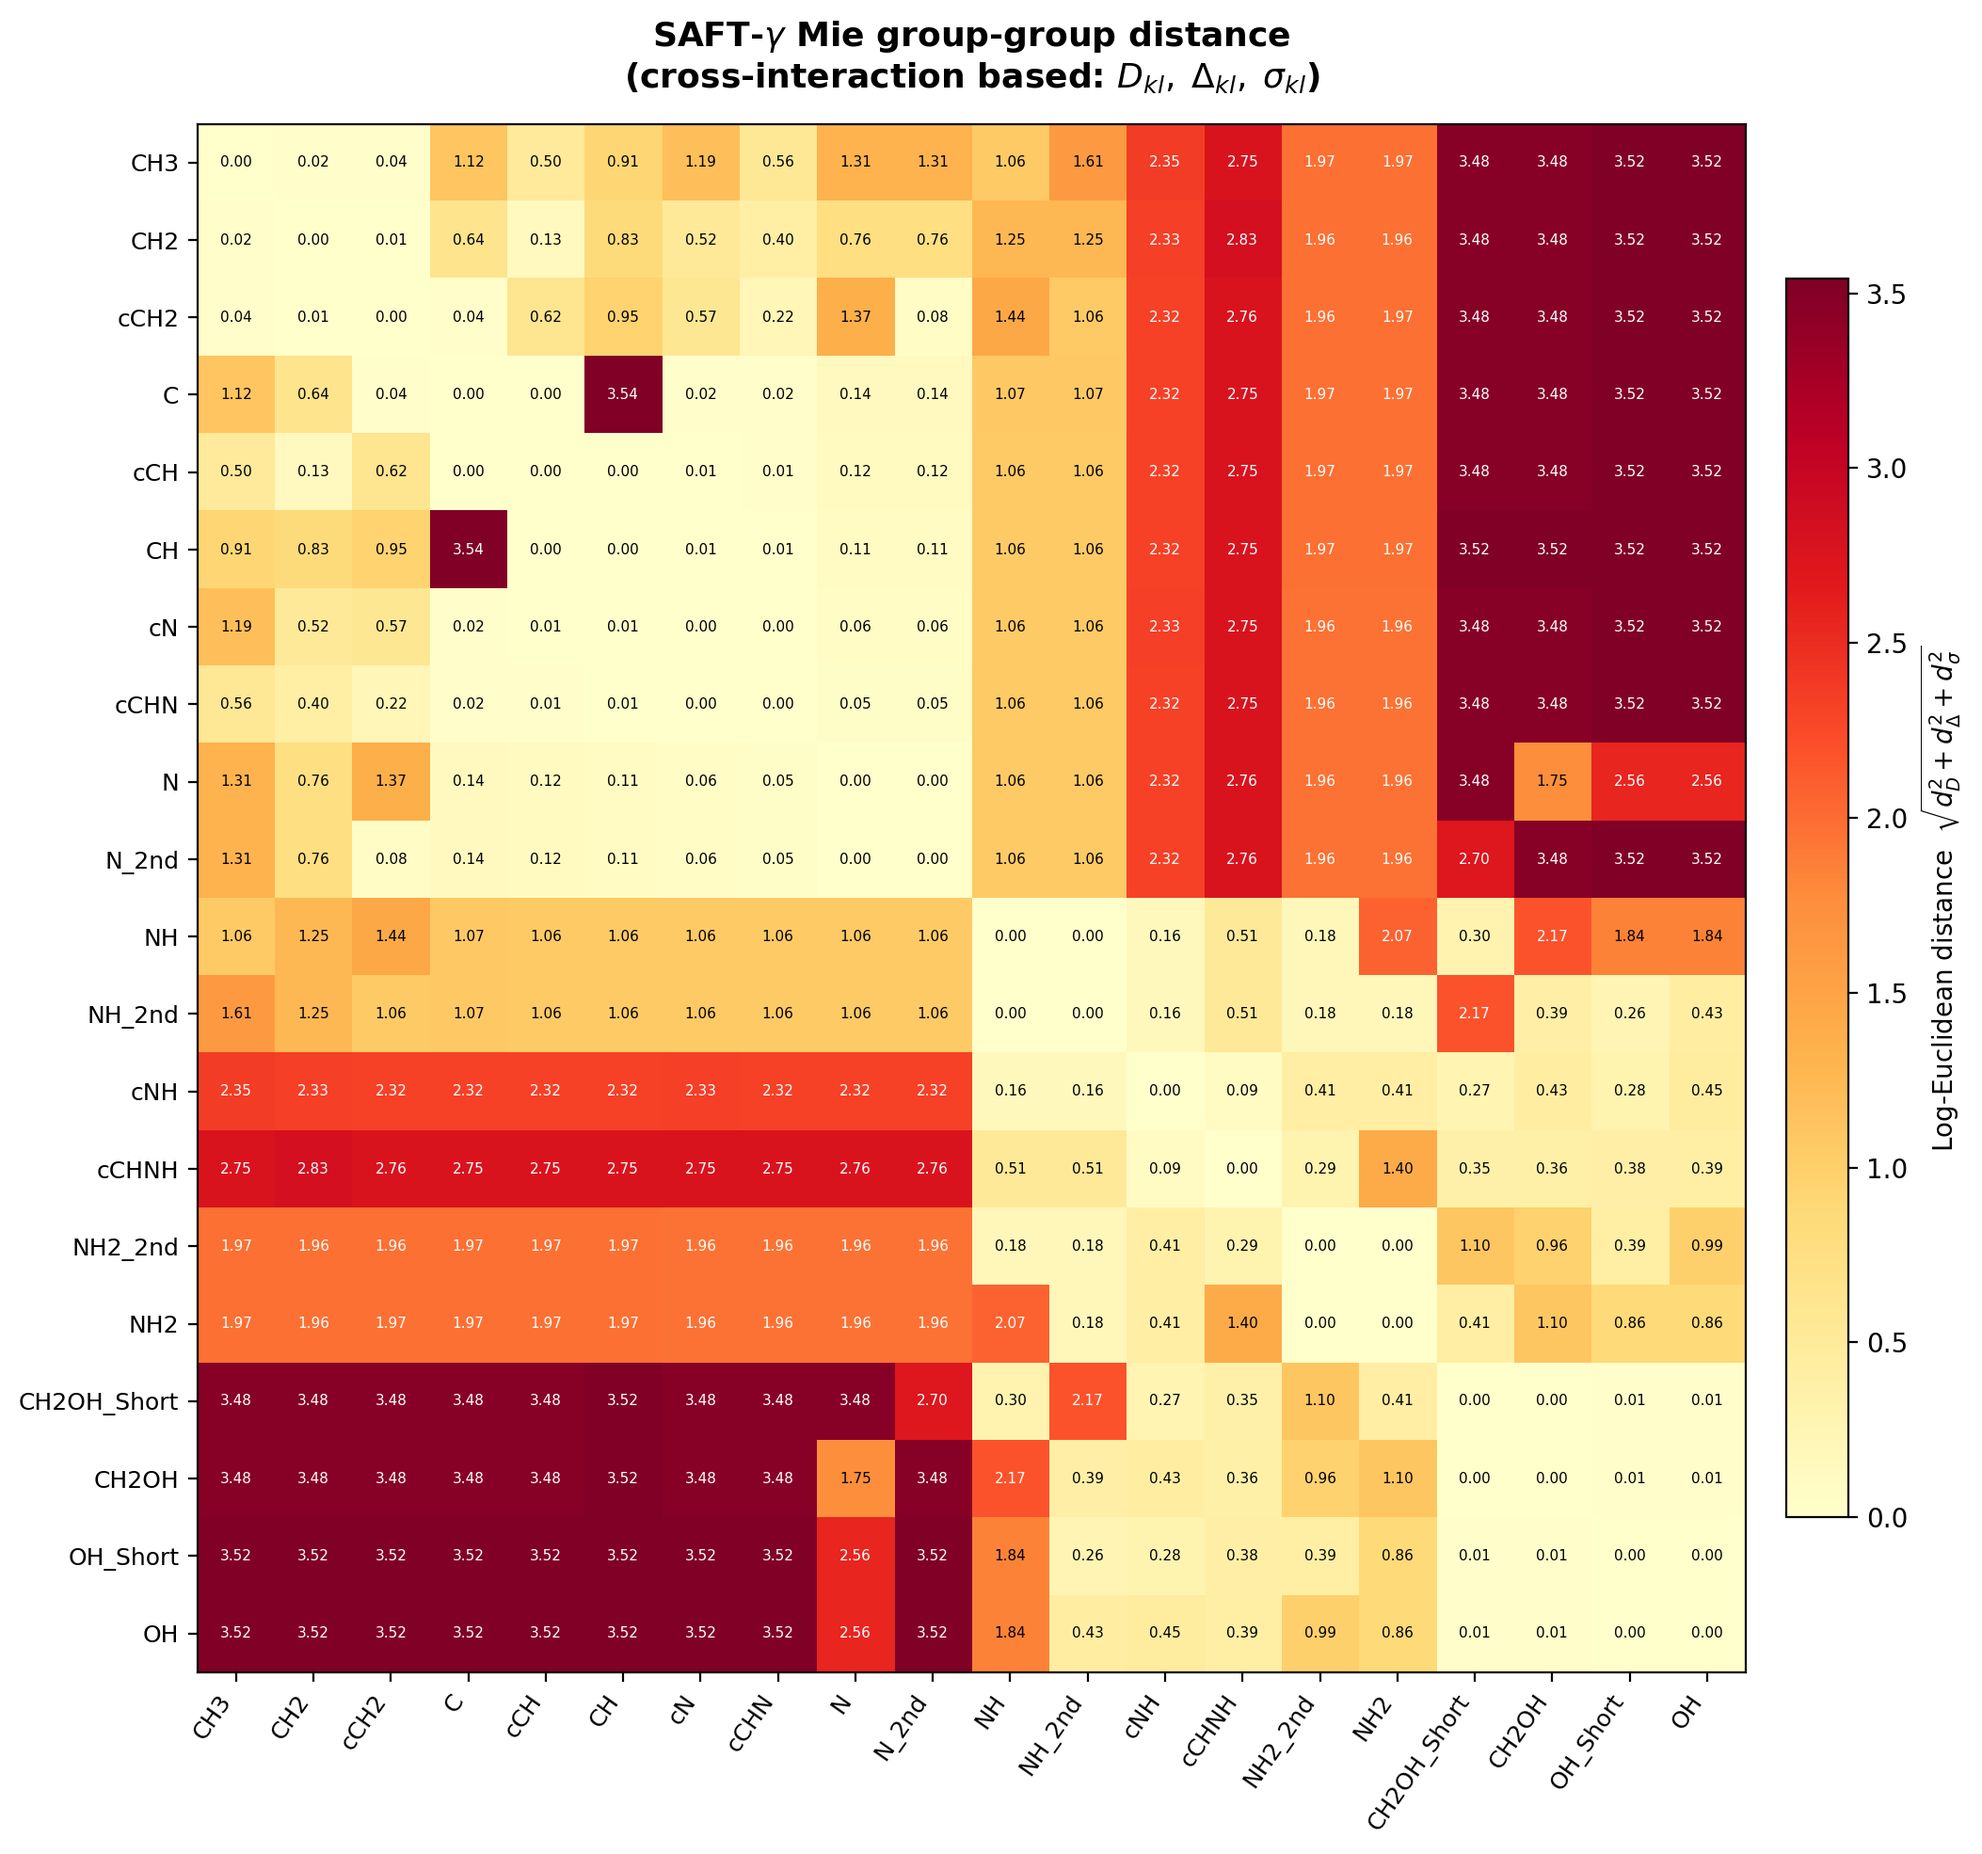
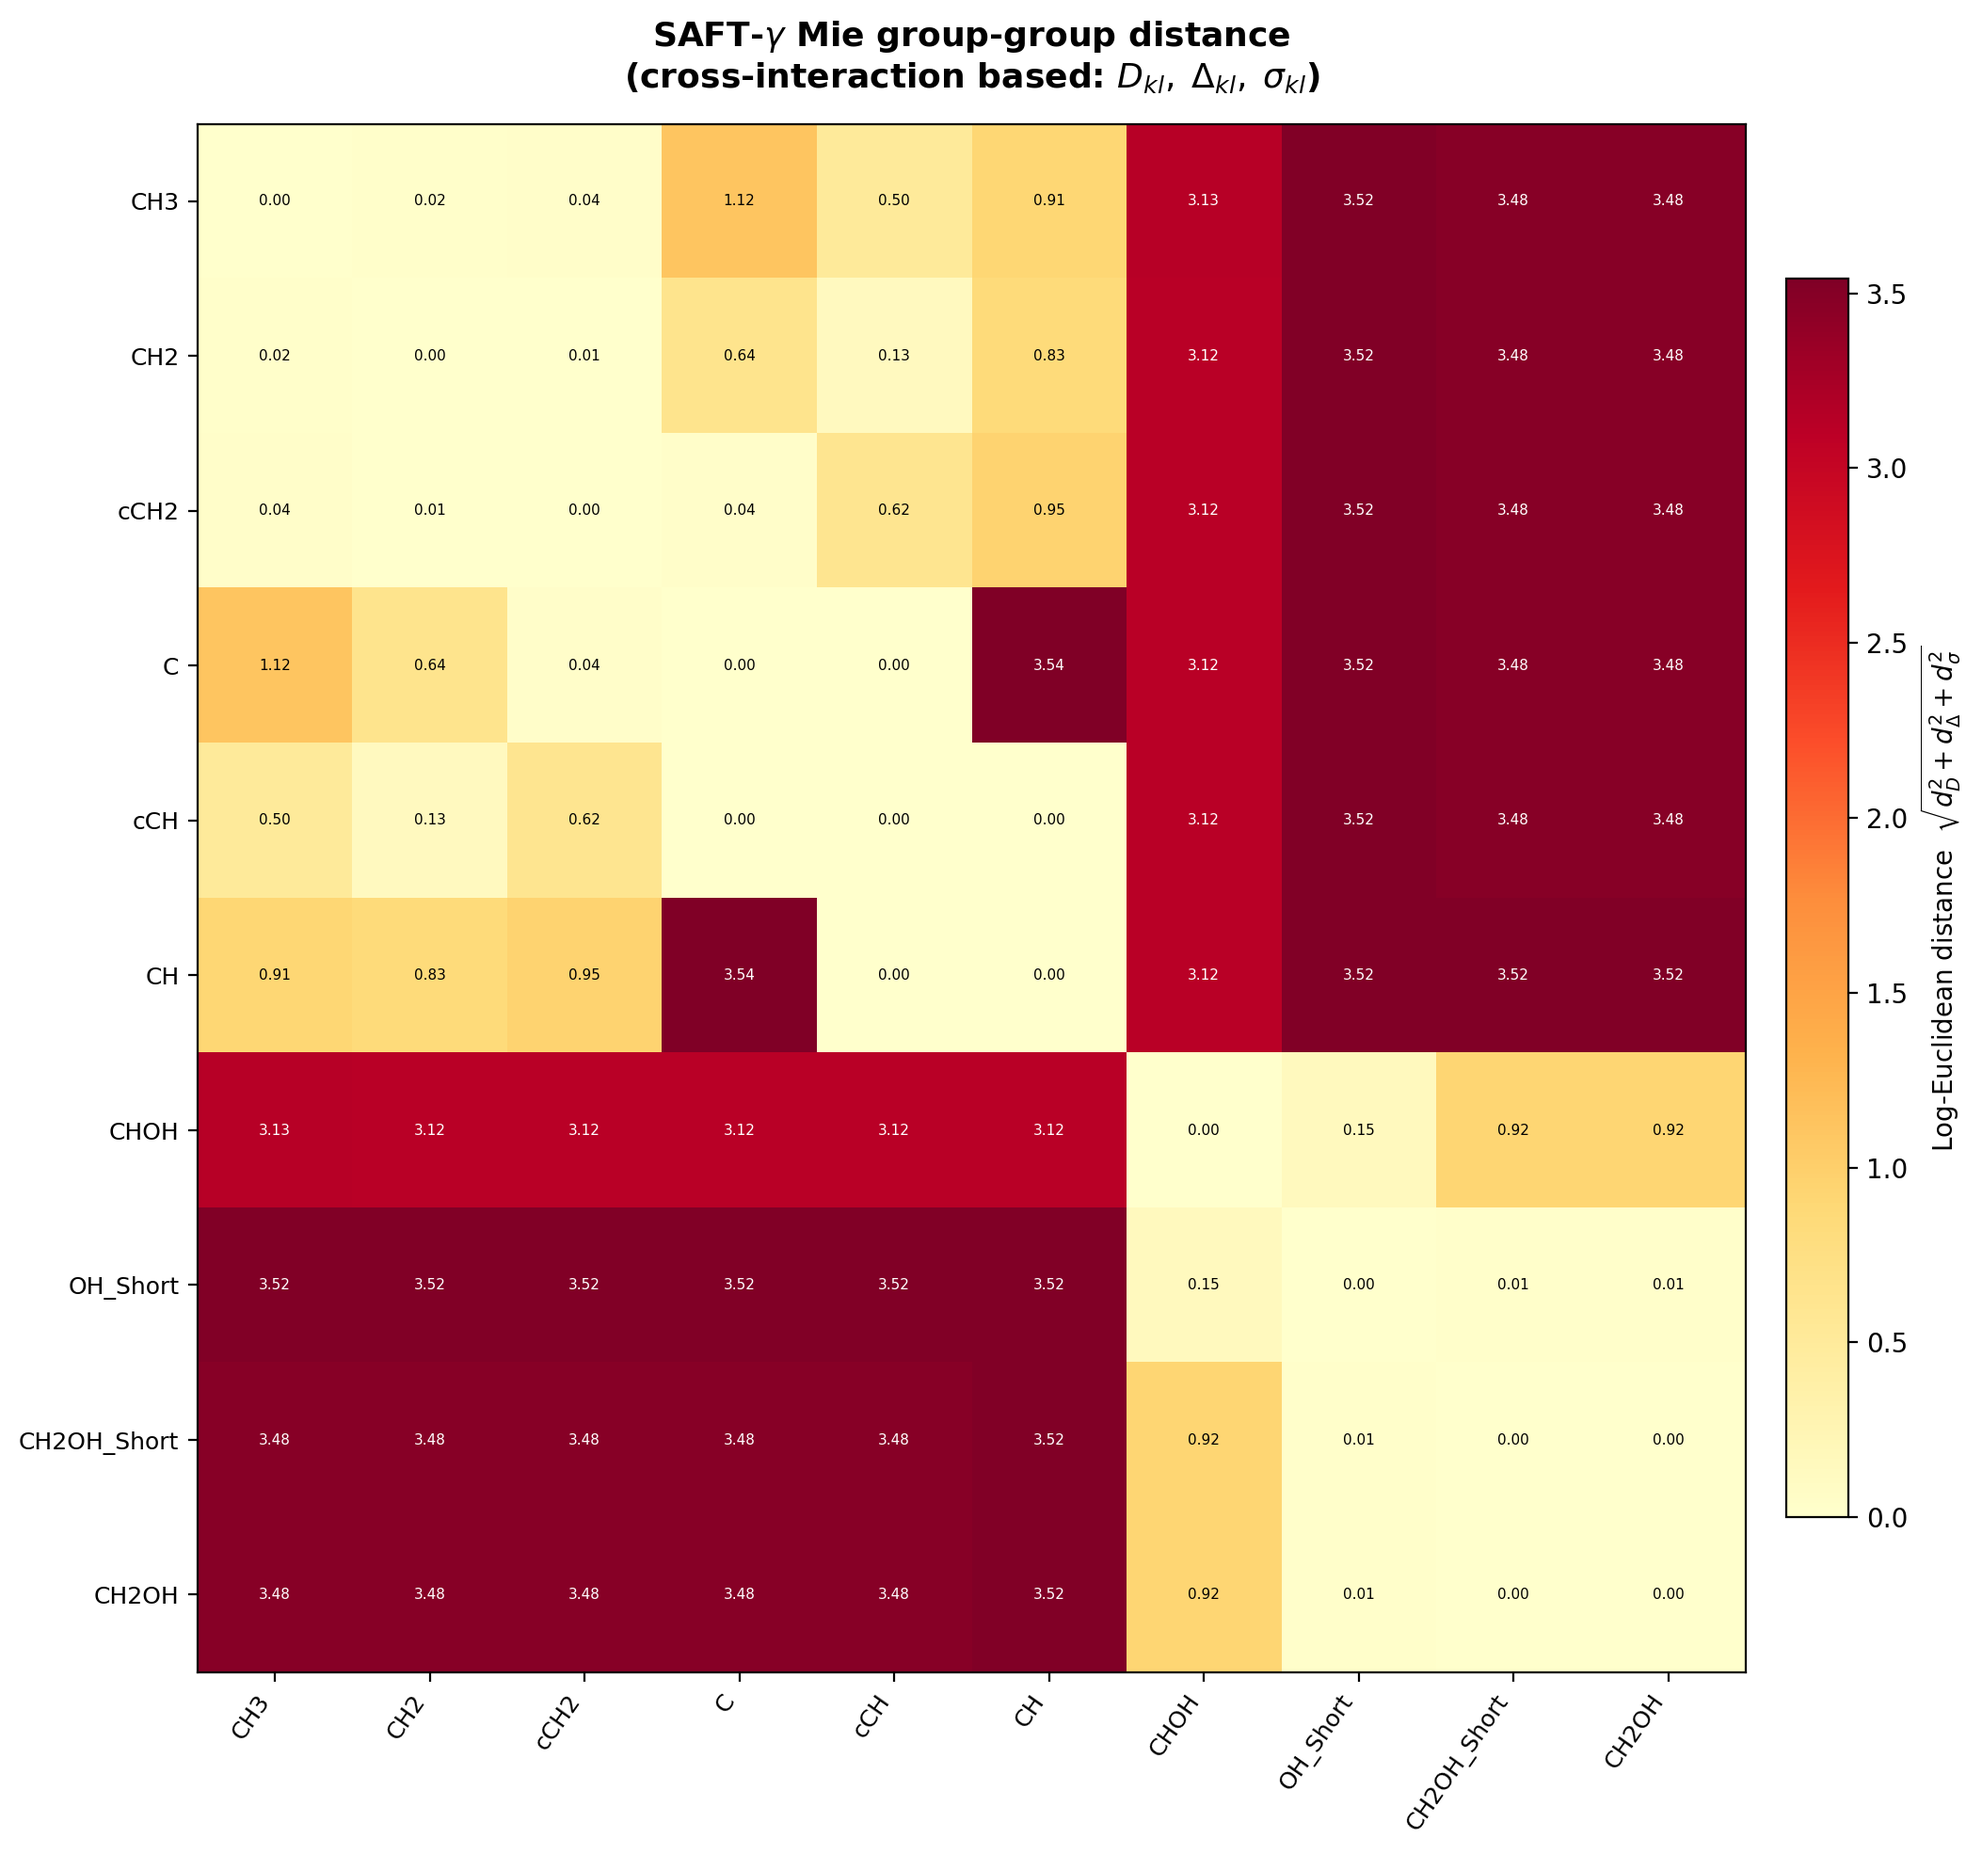
Add app script for computing SAFT-γ Mie distance between molecules

diff --git a/scripts/plot_group_similarity.py b/scripts/plot_group_similarity.py
@@ -63,12 +63,12 @@ from saft_similarity import (
 GROUPS_OF_INTEREST = [
     "CH3", "CH2", "CH", "C",
     "cCH2", "cCH",
-    "CH2OH", "CH2OH_Short",
-    "OH", "OH_Short",
-    "NH2", "NH2_2nd", "NH", "NH_2nd",
-    "N", "N_2nd",
-    "cNH", "cN",
-    "cCHNH", "cCHN",
+    "CH2OH", "CH2OH_Short","CHOH",
+    "OH_Short",
+    #"NH2", "NH2_2nd", "NH", "NH_2nd",
+    #"N", "N_2nd",
+    #"cNH", "cN",
+    #"cCHNH", "cCHN",
     #"H2O", "CO2",
 ]
 
@@ -86,7 +86,7 @@ def _family(g: str) -> str:
         return "Alkyl"
     if g in ("cCH2", "cCH"):
         return "Cycloalkyl"
-    if g in ("CH2OH", "CH2OH_Short", "OH", "OH_Short"):
+    if g in ("CH2OH", "CH2OH_Short", "CHOH", "OH_Short"):
         return "Hydroxyl"
     if g in ("NH2", "NH2_2nd", "NH", "NH_2nd", "N", "N_2nd"):
         return "Amine"
@@ -405,8 +405,7 @@ def _spring_layout(D: np.ndarray, k_neighbours: int = 4,
 def plot_amine_distances(D: np.ndarray, labels: list[str], out_path: str):
     """Bar chart of distances among N- and O-containing groups."""
     focus = {"NH2", "NH2_2nd", "NH", "NH_2nd", "N", "N_2nd",
-             "CH2OH", "CH2OH_Short", "OH", "OH_Short",
-             "cNH", "cN", "cCHNH", "cCHN"}
+             "CH2OH", "CH2OH_Short", "CHOH", "OH_Short"}
     focus_idx = [(i, g) for i, g in enumerate(labels) if g in focus]
     if len(focus_idx) < 2:
         print("  Too few amine/hydroxyl groups to plot bar chart.")
@@ -424,9 +423,8 @@ def plot_amine_distances(D: np.ndarray, labels: list[str], out_path: str):
     pairs = [pairs[o] for o in order]
     dists = [dists[o] for o in order]
 
-    amines = {"NH2", "NH2_2nd", "NH", "NH_2nd", "N", "N_2nd",
-              "cNH", "cN", "cCHNH", "cCHN"}
-    hydroxyl = {"CH2OH", "CH2OH_Short", "OH", "OH_Short"}
+    amines = {"NH2", "NH2_2nd", "NH", "NH_2nd", "N", "N_2nd"}
+    hydroxyl = {"CH2OH", "CH2OH_Short", "CHOH", "OH_Short"}
 
     colours = []
     for p in pairs:
@@ -481,8 +479,8 @@ def plot_radar(group_names: list[str], groups: dict,
     all min-max normalised to [0, 1].
     """
     # Select a readable subset (skip near-duplicates for clarity)
-    show = ["CH3", "CH2", "cCH2", "CH2OH", "OH",
-            "NH2", "NH", "N", "cNH", "H2O"]
+    show = ["CH3", "CH2", "CH2OH", "CHOH",
+            "NH2", "NH", "N", "H2O"]
     show = [g for g in show if g in group_names]
     if len(show) < 3:
         show = group_names[:min(8, len(group_names))]
@@ -546,7 +544,7 @@ def plot_radar(group_names: list[str], groups: dict,
 def main():
     base_dir = os.path.normpath(
         os.path.join(os.path.dirname(__file__), ".."))
-    xml_path = os.path.join(base_dir, "database", "database.xml")
+    xml_path = os.path.join(base_dir, "database", "CCS_Mie_Databank_221020.xml")
     fig_dir  = os.path.join(base_dir, "figures")
     os.makedirs(fig_dir, exist_ok=True)
 
@@ -573,8 +571,8 @@ def main():
     idx_map = {g: i for i, g in enumerate(group_names)}
     key_pairs = [("NH2", "NH"), ("NH2", "N"), ("NH", "N"),
                  ("NH2_2nd", "NH_2nd"), ("NH2_2nd", "N_2nd"),
-                 ("NH2", "OH"), ("CH2OH", "OH"),
-                 ("CH3", "CH2"), ("cCH2", "cCH")]
+                 ("NH2", "CHOH"), ("CH2OH", "CHOH"),
+                 ("CH3", "CH2")]
     print("\n  Cross-pair based distances (selected):")
     for g1, g2 in key_pairs:
         if g1 in idx_map and g2 in idx_map:

diff --git a/scripts/compute_distance.py b/scripts/compute_distance.py
@@ -155,7 +155,7 @@ def _signature(vector, tables: dict) -> dict:
             "sigma3_avg": sig3_sum, "shape_avg": shape_sum}
 
 
-def compute_distance(vec_a, vec_b, tables: dict,
+def compute_distance(vec_a, vec_b, tables: dict | None = None,
                      weights: dict | None = None,
                      s0: float | None = None) -> tuple[float, dict, dict, dict]:
     """
@@ -165,8 +165,8 @@ def compute_distance(vec_a, vec_b, tables: dict,
     ----------
     vec_a, vec_b : list[int]
         Group-count vectors aligned with ``tables["group_names"]``.
-    tables : dict
-        Output of ``load_tables()``.
+    tables : dict, optional
+        Output of ``load_tables()``. If None, loads from default JSON path.
     weights : dict, optional
         {"w_J", "w_S", "w_M", "w_P", "w_SH"}.  Defaults to values
         stored in the JSON.
@@ -181,6 +181,9 @@ def compute_distance(vec_a, vec_b, tables: dict,
     components : dict   – per-component log-ratio contributions
                           {"d_D", "d_A", "d_m", "d_sigma", "d_shape"}
     """
+    if tables is None:
+        tables = load_tables()
+
     if weights is None:
         weights = tables["weights"]
     if s0 is None:
@@ -217,6 +220,27 @@ def compute_distance(vec_a, vec_b, tables: dict,
                   "d_sigma": ds3, "d_shape": dsh}
 
     return dist, sig_a, sig_b, components
+
+
+def distance(base_vector, target_vector) -> float:
+    """
+    Compute the SAFT-γ Mie distance between two molecule vectors.
+
+    This is a simplified interface that loads tables automatically and
+    returns only the distance value.
+
+    Parameters
+    ----------
+    base_vector, target_vector : list[int]
+        Group-count vectors aligned with the standard group order.
+
+    Returns
+    -------
+    distance : float
+        The log-Euclidean distance between the two molecules.
+    """
+    dist, _, _, _ = compute_distance(base_vector, target_vector)
+    return dist
 
 
 # ═══════════════════════════════════════════════════════════════════════════════

diff --git a/scripts/app.py b/scripts/app.py
@@ -1,0 +1,29 @@
+#!/usr/bin/env python3
+"""
+Simple app to compute SAFT-γ Mie distance between two molecules.
+
+This script defines two test vectors and computes their distance.
+"""
+
+from compute_distance import distance
+
+def main():
+    print("SAFT-γ Mie Molecule Distance Calculator")
+    print("=" * 40)
+
+    # Define test vectors (MEA vs DMEA)
+    base_vector = [0, 0, 0, 0, 1, 0, 0, 0, 0, 1, 0, 0, 0, 0]  # MEA: CH2 + NH2
+    target_vector = [0, 0, 0, 2, 0, 0, 0, 0, 0, 0, 0, 1, 0, 0]  # DMEA: 2×CH3 + NH
+
+    print(f"Base vector (MEA): {base_vector}")
+    print(f"Target vector (DMEA): {target_vector}")
+
+    # Compute distance
+    try:
+        dist = distance(base_vector, target_vector)
+        print(f"\nDistance: {dist:.6f}")
+    except Exception as e:
+        print(f"Error computing distance: {e}")
+
+if __name__ == "__main__":
+    main()
